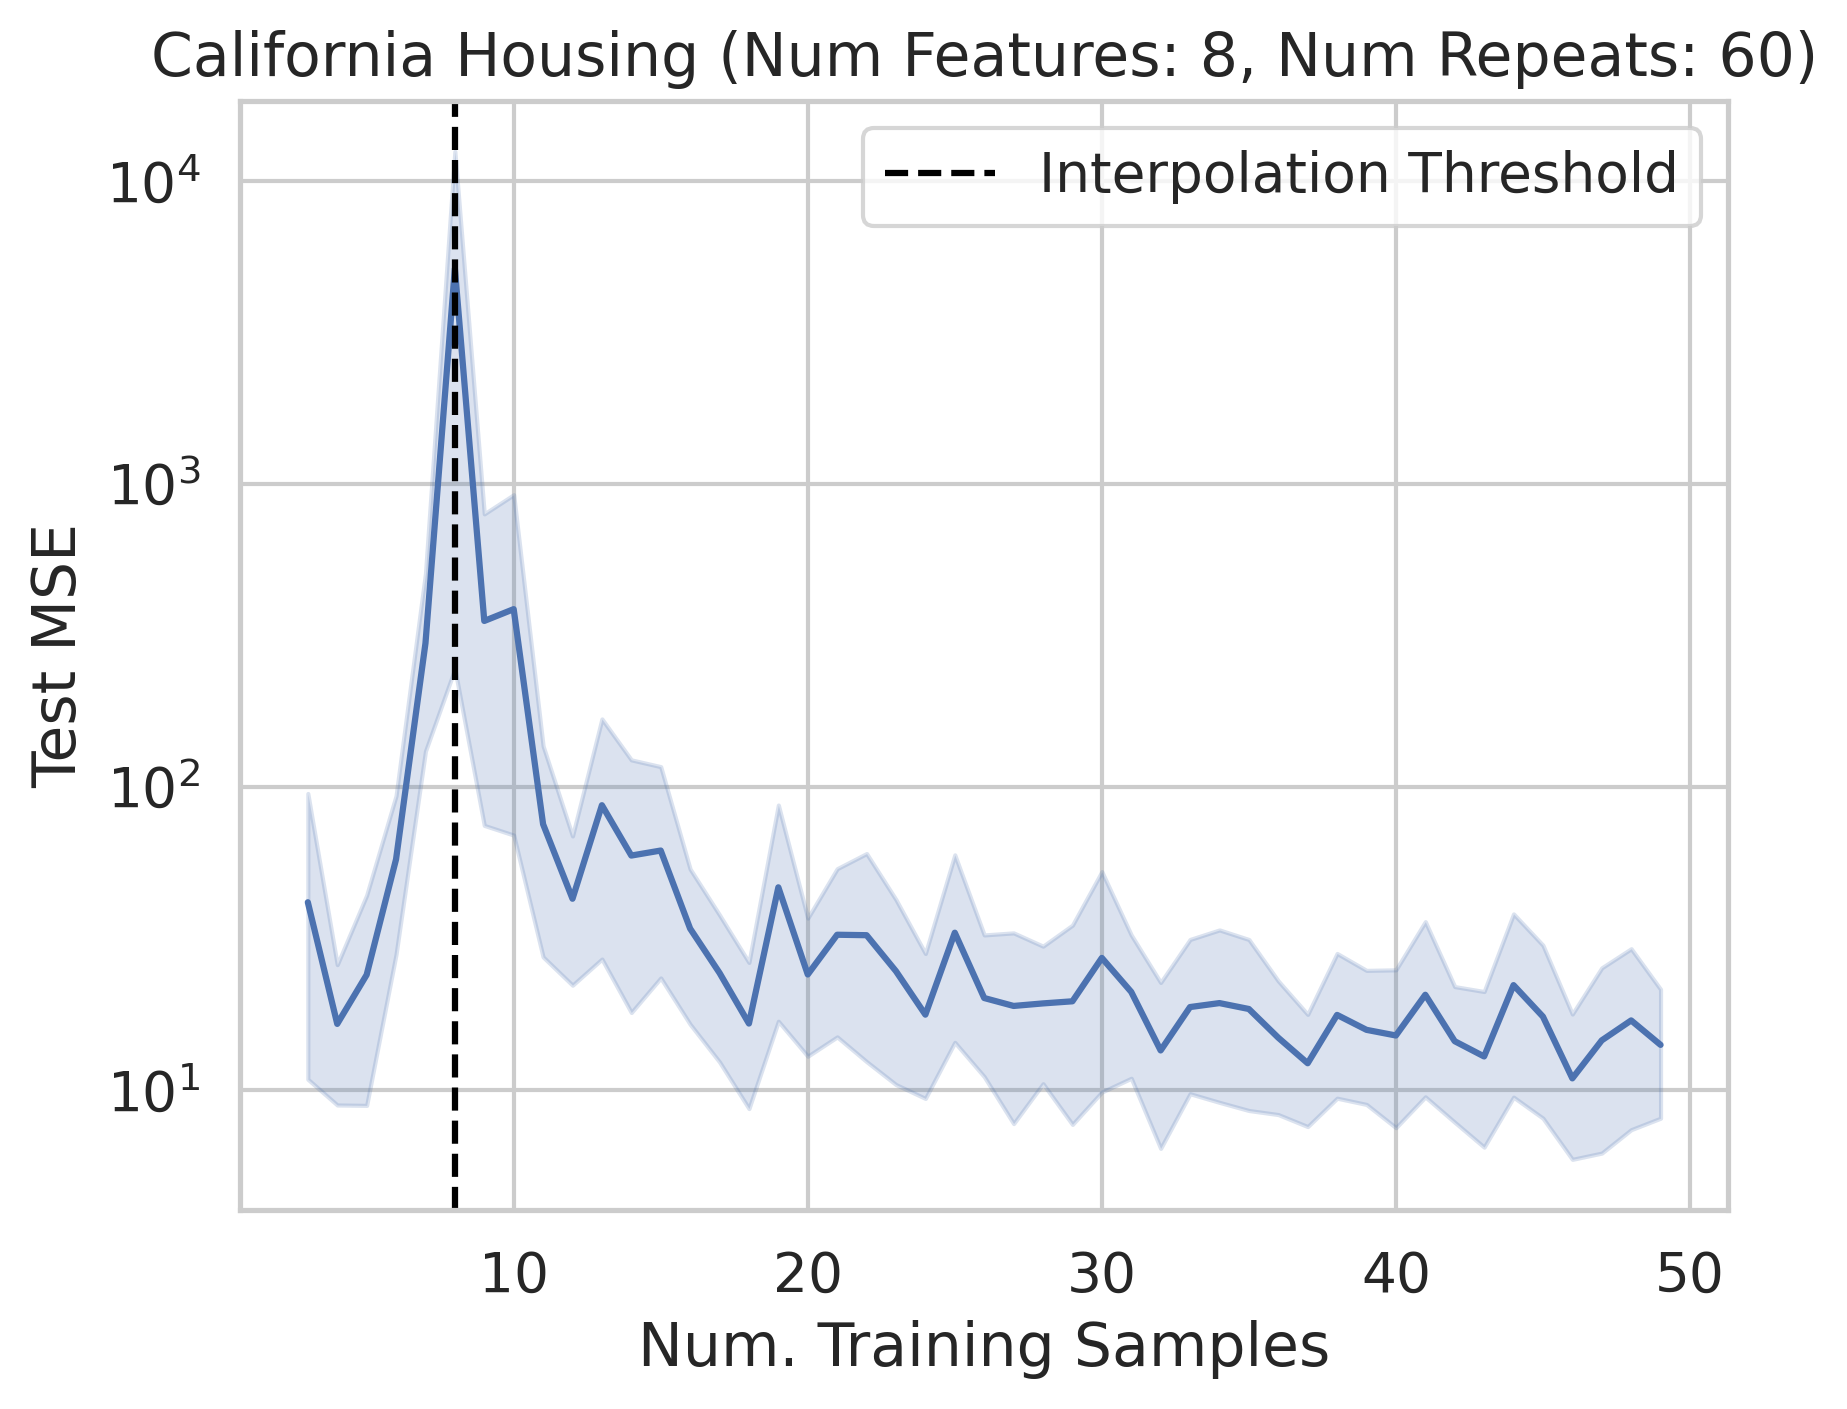
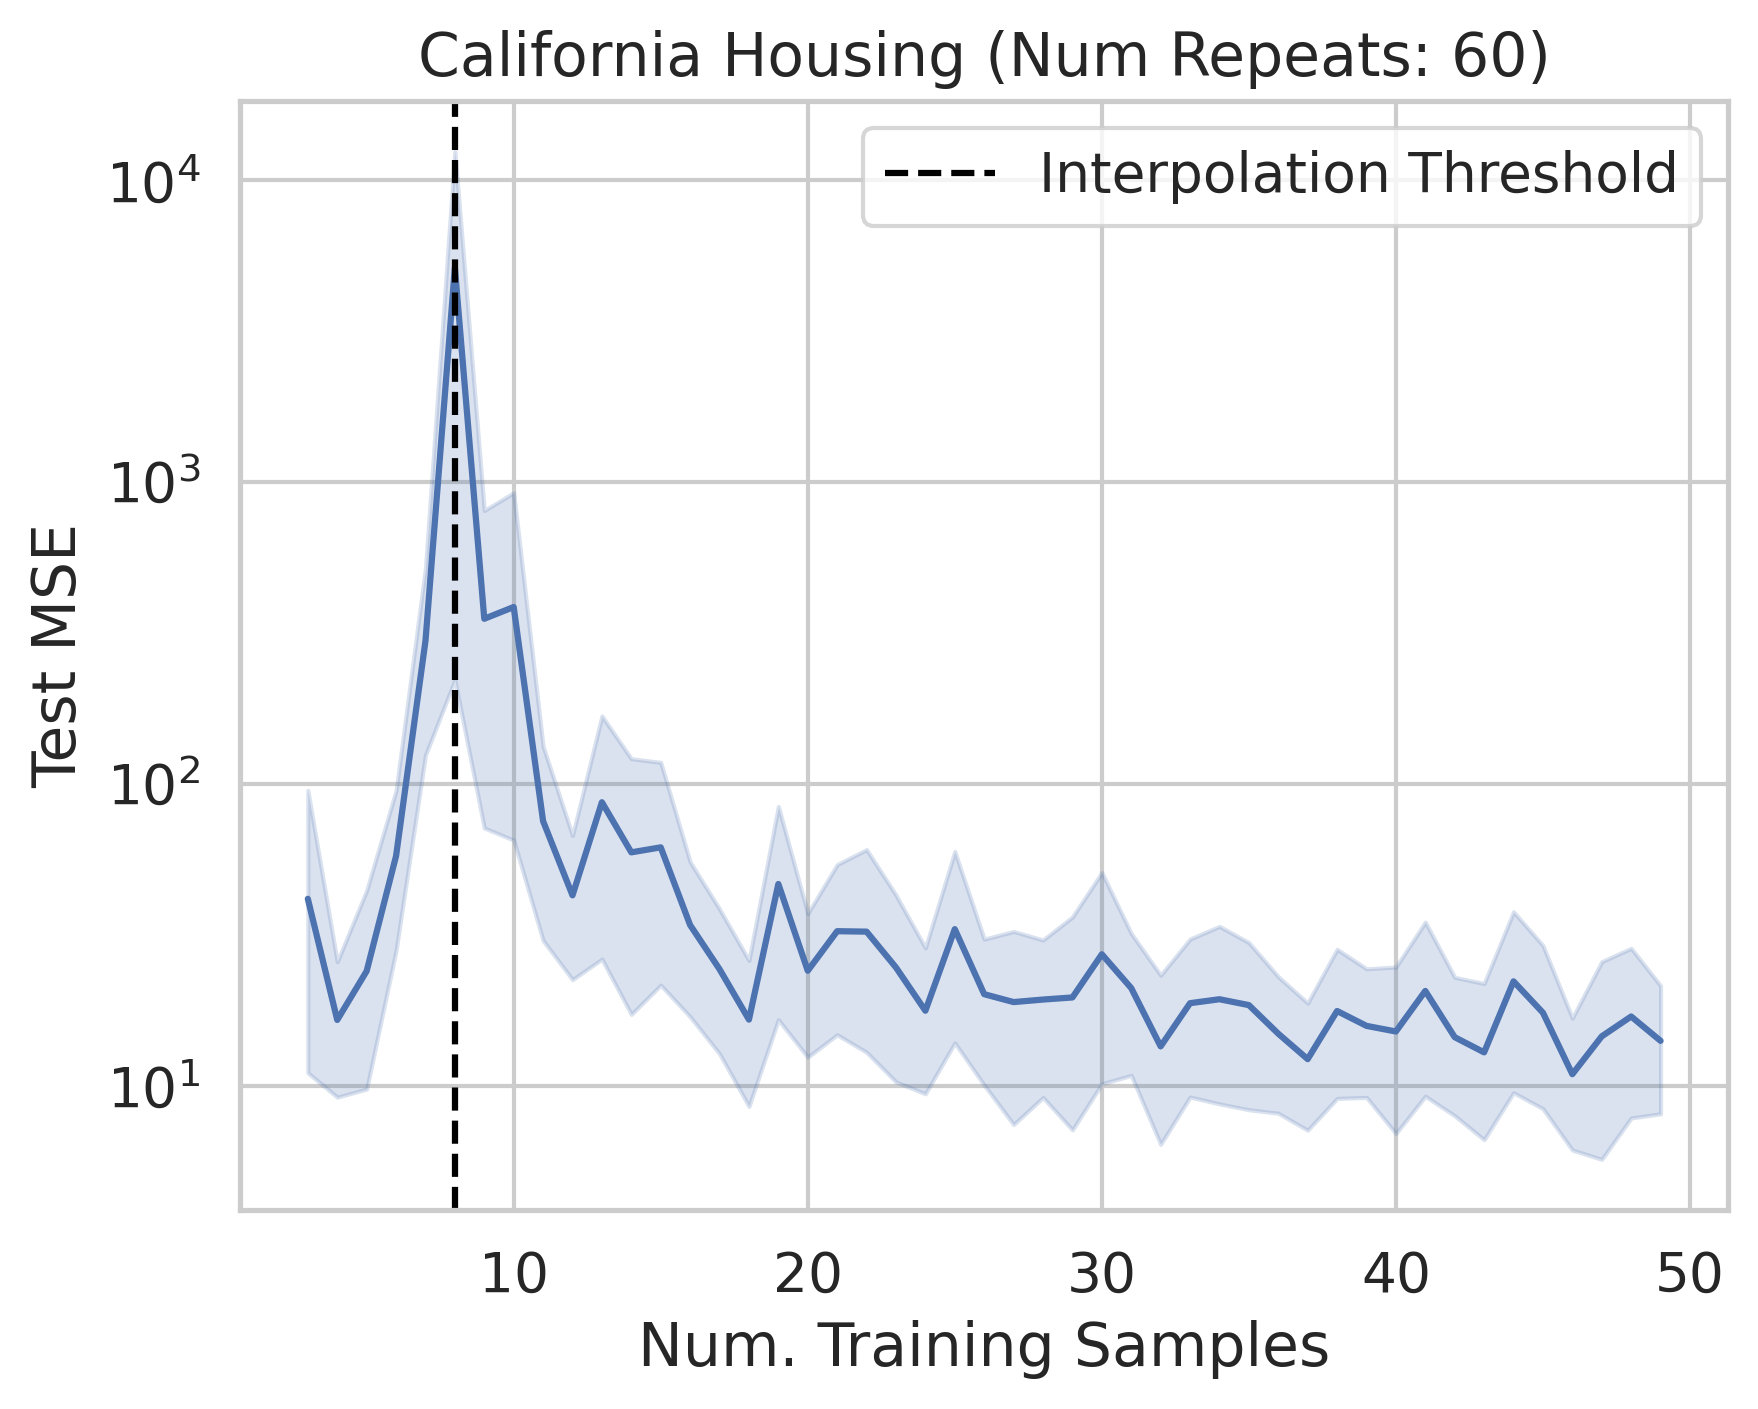
Regenerated data with better title

diff --git a/playground.py b/playground.py
@@ -103,7 +103,7 @@ for dataset_name, dataset_fn in regression_datasets:
     )
     plt.xlabel('Num. Training Samples')
     plt.axvline(x=X.shape[1], color='black', linestyle='--', label='Interpolation Threshold')
-    plt.title(f'{dataset_name} (Num Features: {X.shape[1]}, Num Repeats: {num_repeats})')
+    plt.title(f'{dataset_name} (Num Repeats: {num_repeats})')
     plt.yscale('log')
     plt.legend()
     # plt.show()

diff --git a/README.md b/README.md
@@ -6,8 +6,8 @@ Authors: Rylan Schaeffer, etc.
 This repository contains the code and data for our preprint 
 "An Introductory Tutorial on Double Descent: What Double Descent Is and Why It Occurs"
 
-![](double_descent_dataset=California%20Housing.png)
 ![](double_descent_dataset=WHO%20Life%20Expectancy.png)
+![](double_descent_dataset=California%20Housing.png)
 ![](double_descent_dataset=Diabetes.png)
 
 
